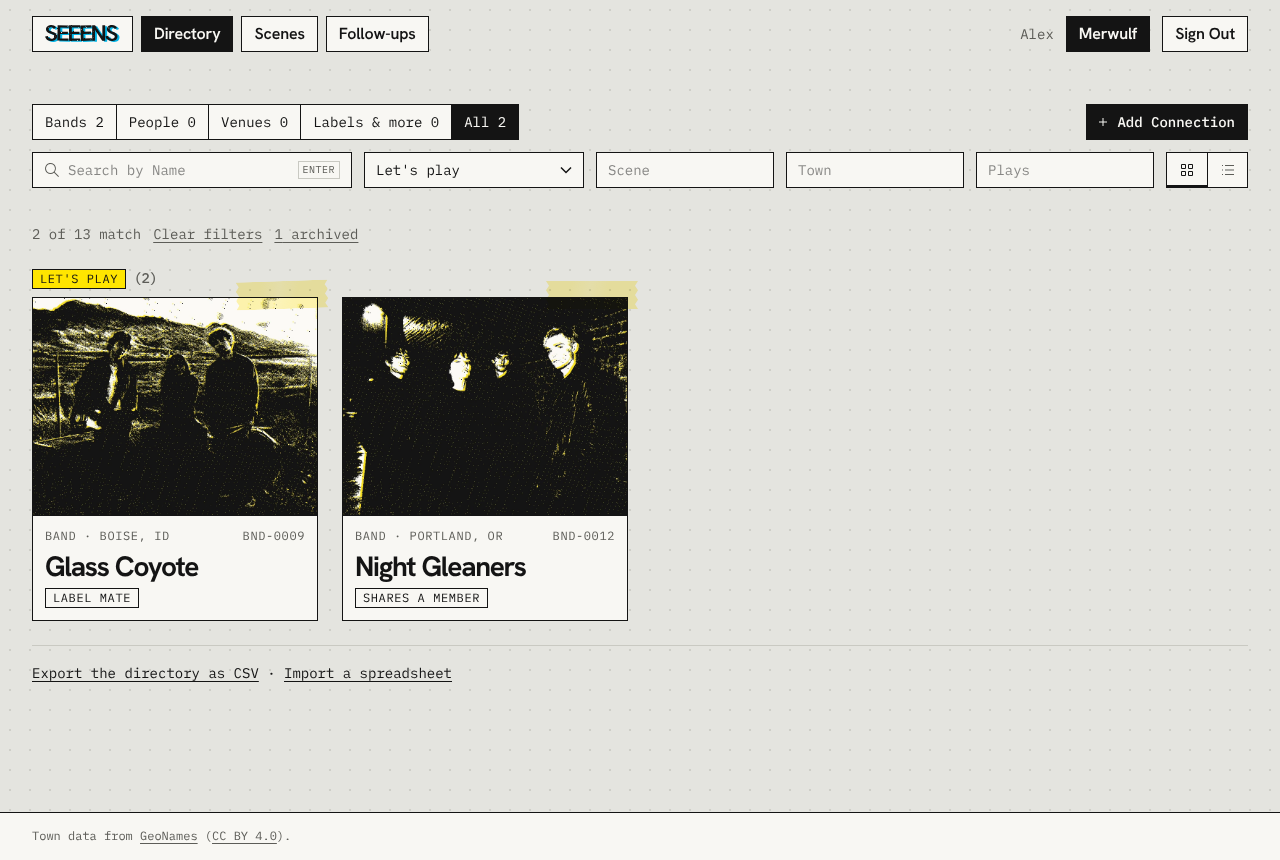
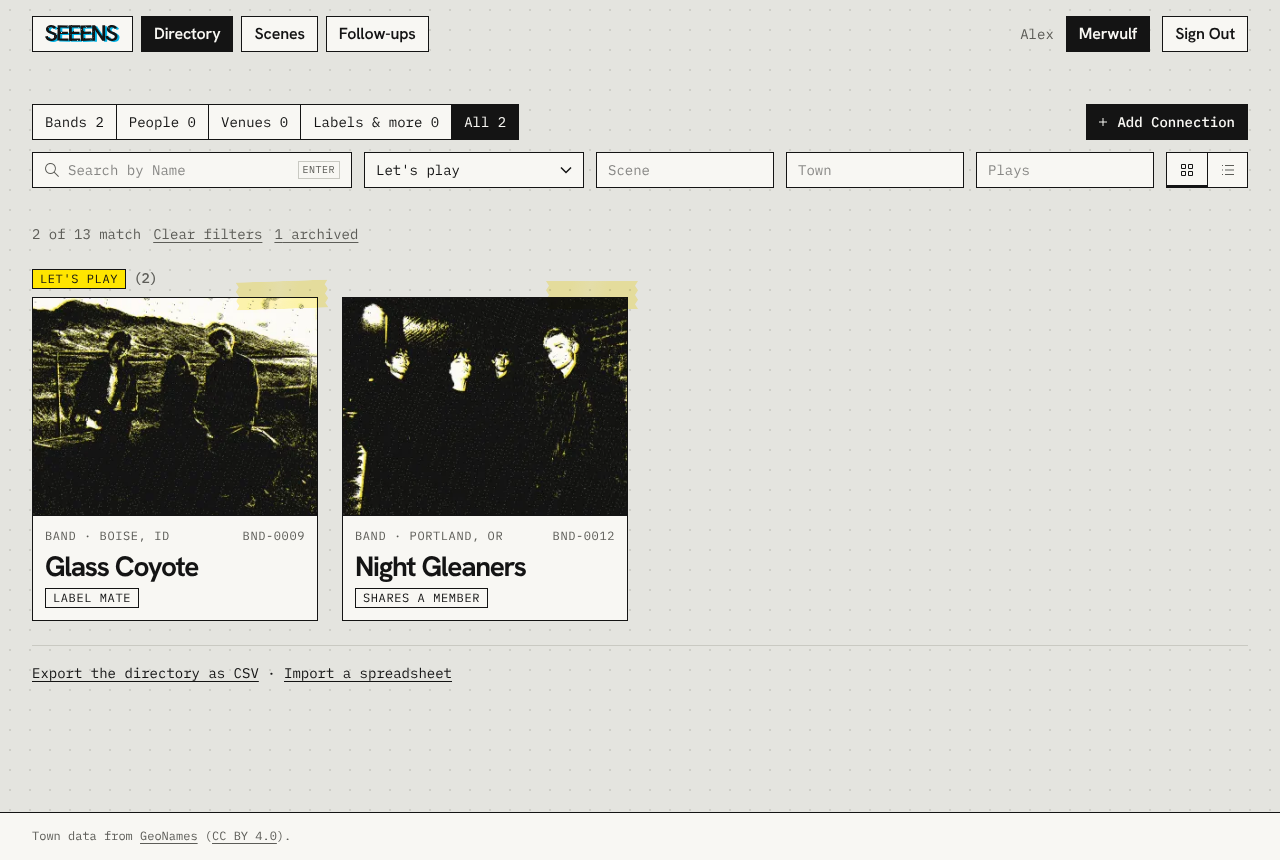
Photos load from a stable, cached address, at the size shown (#154)
Photos came through signed storage links that changed on every page load,
so neither the browser nor Supabase's CDN could cache them: every visit
downloaded every photo again, at the full 800px copy (90-220 KB), even for
48px list thumbnails.

- /api/photos/<path> serves a photo to signed-in members (storage policies
  check the workspace). Saves always write new file names, so each address
  is cached by the browser for a year (private, immutable).
- ?w= serves a smaller WebP: 160 for list rows, 320 for the page header,
  320/640 by srcset for cards. Cards drop to about 15-25 KB, rows to ~5 KB.
- Pages no longer sign links on every render.
- sharp is now a direct dependency (it was already installed through Next).

Claude-Session: https://claude.ai/code/session_01SMP6NnyPkRALtU7G1T7uNS

diff --git a/src/lib/connections/directory.ts b/src/lib/connections/directory.ts
@@ -3,7 +3,6 @@ import { readVenueDetails, venueLine } from "./venue-details";
 import { requireWorkspaceId } from "@/lib/auth/dal";
 import { createClient } from "@/lib/supabase/server";
 import { listSceneOptions, sceneAndChildren } from "@/lib/scenes/queries";
-import { signPhotos } from "@/lib/photos/urls";
 import { readFilters, type DirectoryFilters } from "./filters";
 import type { ConnectionKind, ConnectionStatus, GroupType, PersonRole } from "./labels";
 import { readTab, type Tab } from "./tabs";
@@ -41,8 +40,8 @@ export type DirectoryItem = {
   is_us: boolean;
   played_together: boolean;
   catalog_no: number;
-  /** A signed link to the copied photo (#37), if there is one. */
-  photo_url: string | null;
+  /** The copied photo's storage path (#37), if there is one; see photoUrl. */
+  photo_path: string | null;
   photo_alt: string | null;
   localities: {
     name: string;
@@ -168,12 +167,11 @@ export async function loadDirectoryPage(
   if (detailError) throw new Error("Couldn't load the directory.");
 
   const byId = new Map((details ?? []).map((d) => [d.id, d]));
-  const photos = await signPhotos((details ?? []).map((d) => d.photo_path));
   const sceneNames = new Map(scenes.map((s) => [s.id, s.name]));
   const items: DirectoryItem[] = page.rows.flatMap((r) => {
     const d = byId.get(r.id);
     if (!d) return []; // deleted between the two reads
-    const { connection_scenes, photo_path, notes, incoming, outgoing, attributes, ...rest } = d;
+    const { connection_scenes, notes, incoming, outgoing, attributes, ...rest } = d;
     // Current, unarchived members only, in name order.
     const names = (links: { kind: string; is_current: boolean; other: { name: string; archived_at: string | null } | null }[]) =>
       links
@@ -183,7 +181,6 @@ export async function loadDirectoryPage(
     return [
       {
         ...rest,
-        photo_url: photo_path ? (photos.get(photo_path) ?? null) : null,
         tags: [r.label_mate ? "Label mate" : null, r.shares_member ? "Shares a member" : null].filter(
           (t): t is string => Boolean(t),
         ),

diff --git a/src/app/api/photos/[...path]/route.ts b/src/app/api/photos/[...path]/route.ts
@@ -1,0 +1,41 @@
+import sharp from "sharp";
+import { createClient } from "@/lib/supabase/server";
+import { PHOTO_BUCKET, PHOTO_WIDTHS, isPhotoPath } from "@/lib/photos/urls";
+
+// A connection photo at a stable address (#37). Photos used to load through
+// signed storage links that changed on every page load, so nothing could
+// cache them and every visit downloaded every photo again at full size.
+//
+// Every save writes files under new names, so a path's bytes never change:
+// the browser keeps each one for a year. Signed-in members only: storage
+// policies check the workspace on the download. ?w= serves a smaller copy for cards
+// and thumbnails.
+const NOT_FOUND = new Response(null, { status: 404, headers: { "Cache-Control": "private, no-store" } });
+
+export async function GET(request: Request, { params }: { params: Promise<{ path: string[] }> }) {
+  const path = (await params).path.join("/");
+  const supabase = await createClient();
+  const { data: claims } = await supabase.auth.getClaims();
+  if (!claims?.claims?.sub) return NOT_FOUND.clone();
+  // Storage policies only let members of the path's workspace download it,
+  // so there's no separate membership lookup per photo.
+  if (!isPhotoPath(path)) return NOT_FOUND.clone();
+
+  const { data: file, error } = await supabase.storage.from(PHOTO_BUCKET).download(path);
+  if (error || !file) return NOT_FOUND.clone();
+
+  const w = Number(new URL(request.url).searchParams.get("w"));
+  let body: ArrayBuffer | Buffer = await file.arrayBuffer();
+  let type = file.type || "image/webp";
+  if ((PHOTO_WIDTHS as readonly number[]).includes(w)) {
+    body = await sharp(Buffer.from(body)).resize({ width: w, withoutEnlargement: true }).webp({ quality: 80 }).toBuffer();
+    type = "image/webp";
+  }
+  return new Response(new Uint8Array(body), {
+    headers: {
+      "Content-Type": type,
+      "Cache-Control": "private, max-age=31536000, immutable",
+      "X-Content-Type-Options": "nosniff",
+    },
+  });
+}

diff --git a/src/lib/photos/urls.ts b/src/lib/photos/urls.ts
@@ -1,17 +1,23 @@
-import "server-only";
-import { createClient } from "@/lib/supabase/server";
-
 export const PHOTO_BUCKET = "connection-photos";
-/** Signed photo links last an hour; pages re-sign them on every load. */
-const EXPIRES_IN = 60 * 60;
 
-/** Short-lived links for stored photo paths, keyed by path. Missing ones are left out. */
-export async function signPhotos(paths: (string | null | undefined)[]) {
-  const wanted = [...new Set(paths.filter((p): p is string => Boolean(p)))];
-  const urls = new Map<string, string>();
-  if (!wanted.length) return urls;
-  const supabase = await createClient();
-  const { data } = await supabase.storage.from(PHOTO_BUCKET).createSignedUrls(wanted, EXPIRES_IN);
-  for (const d of data ?? []) if (d.path && d.signedUrl && !d.error) urls.set(d.path, d.signedUrl);
-  return urls;
+/** Widths the photo route serves besides the full copy: list rows, the page header, cards. */
+export const PHOTO_WIDTHS = [160, 320, 640] as const;
+export type PhotoWidth = (typeof PHOTO_WIDTHS)[number];
+
+const PATH = /^[0-9a-f-]{36}\/[0-9a-f-]{36}\/[0-9a-f-]{36}(-original)?\.(webp|jpg)$/;
+export const isPhotoPath = (p: string) => PATH.test(p);
+
+/**
+ * A stored photo's address on this site (/api/photos/…), stable for as long as
+ * the photo is, so the browser caches it. Optionally a smaller copy.
+ */
+export function photoUrl(path: string | null | undefined, width?: PhotoWidth): string | null {
+  if (!path || !isPhotoPath(path)) return null;
+  return `/api/photos/${path}${width ? `?w=${width}` : ""}`;
+}
+
+/** srcset for a photo shown at several sizes (cards). */
+export function photoSrcSet(path: string | null | undefined): string | undefined {
+  const base = photoUrl(path);
+  return base ? `${base}?w=320 320w, ${base}?w=640 640w, ${base} 800w` : undefined;
 }

diff --git a/src/components/connection-card.tsx b/src/components/connection-card.tsx
@@ -1,4 +1,5 @@
 import Link from "next/link";
+import { photoSrcSet, photoUrl } from "@/lib/photos/urls";
 import type { ReactNode } from "react";
 import { DateLines } from "@/components/date-line";
 import {
@@ -30,7 +31,7 @@ export type CardConnection = {
   is_us: boolean;
   played_together: boolean;
   catalog_no: number;
-  photo_url?: string | null;
+  photo_path?: string | null;
   photo_alt?: string | null;
   localities: Parameters<typeof formatLocality>[0];
   outreach_entries: { occurred_on: string; summary: string }[];
@@ -73,10 +74,18 @@ export function ConnectionCard({
       <span className="card-print" aria-hidden="true">
         {/* Initials sit under the photo, so a photo that fails to load never leaves a blank print. */}
         <span className="card-print-initials">{initials(c.name)}</span>
-        {c.photo_url ? (
-          // Signed storage links change on every load, so next/image's cache wouldn't help.
+        {c.photo_path ? (
+          // Served at a stable address and cached by the browser; the card takes
+          // the smallest copy that's sharp at its width.
           // eslint-disable-next-line @next/next/no-img-element
-          <img src={c.photo_url} alt="" loading="lazy" decoding="async" />
+          <img
+            src={photoUrl(c.photo_path, 640)!}
+            srcSet={photoSrcSet(c.photo_path)}
+            sizes="(min-width: 80rem) 25vw, (min-width: 48rem) 33vw, (min-width: 40rem) 50vw, 100vw"
+            alt=""
+            loading="lazy"
+            decoding="async"
+          />
         ) : null}
       </span>
       <span className={`tape ${c.is_us ? "tape-clear" : TAPE[c.status]} card-tape`} style={{ rotate: `${tilt}deg` }} aria-hidden="true" />

diff --git a/src/app/(app)/connections/[id]/edit/page.tsx b/src/app/(app)/connections/[id]/edit/page.tsx
@@ -9,7 +9,7 @@ import { linksPanelProps } from "@/lib/affiliations/rows";
 import { NoWorkspace } from "@/components/no-workspace";
 import { listSceneOptions } from "@/lib/scenes/queries";
 import { PhotoPanel } from "@/components/photo-panel";
-import { signPhotos } from "@/lib/photos/urls";
+import { photoUrl } from "@/lib/photos/urls";
 import { defaultSettings, readSettings } from "@/lib/photos/settings";
 
 export const metadata: Metadata = { title: "Edit connection · Seeens" };
@@ -29,7 +29,6 @@ async function EditConnection({ params }: { params: PageProps<"/connections/[id]
   const { id } = await params;
   const [detail, scenes] = await Promise.all([getConnection(id), listSceneOptions()]);
   const { connection } = detail;
-  const photos = await signPhotos([connection.photo_path, connection.photo_original_path]);
 
   return (
     <div className="page-measure flex flex-col gap-6">
@@ -46,8 +45,8 @@ async function EditConnection({ params }: { params: PageProps<"/connections/[id]
               connectionId={connection.id}
               workspaceId={membership.workspaceId}
               name={connection.name}
-              photoUrl={connection.photo_path ? (photos.get(connection.photo_path) ?? null) : null}
-              originalUrl={connection.photo_original_path ? (photos.get(connection.photo_original_path) ?? null) : null}
+              photoUrl={photoUrl(connection.photo_path, 320)}
+              originalUrl={photoUrl(connection.photo_original_path)}
               photoPath={connection.photo_path}
               originalPath={connection.photo_original_path}
               settings={readSettings(connection.photo_settings)}

diff --git a/src/app/(app)/connections/[id]/page.tsx b/src/app/(app)/connections/[id]/page.tsx
@@ -32,7 +32,7 @@ import { LinksPanel } from "@/components/links-panel";
 import { NoWorkspace } from "@/components/no-workspace";
 import { QuickStatus } from "@/components/quick-status";
 import { PhotoPanel } from "@/components/photo-panel";
-import { signPhotos } from "@/lib/photos/urls";
+import { photoUrl } from "@/lib/photos/urls";
 import { defaultSettings, readSettings } from "@/lib/photos/settings";
 
 export default function ConnectionPage({ params, searchParams }: PageProps<"/connections/[id]">) {
@@ -62,7 +62,6 @@ async function Connection({
   const ourLabel = detail.affiliations.incoming.some((a) => a.kind === "on_label" && a.other?.is_us && a.is_current);
   const place = formatLocality(c.localities);
   const archived = Boolean(c.archived_at);
-  const photos = await signPhotos([c.photo_path, c.photo_original_path]);
   // What they play, from their band roles, current and former (#140).
   const plays =
     c.kind === "person"
@@ -99,8 +98,8 @@ async function Connection({
           connectionId={c.id}
           workspaceId={membership.workspaceId}
           name={c.name}
-          photoUrl={c.photo_path ? (photos.get(c.photo_path) ?? null) : null}
-          originalUrl={c.photo_original_path ? (photos.get(c.photo_original_path) ?? null) : null}
+          photoUrl={photoUrl(c.photo_path, 320)}
+          originalUrl={photoUrl(c.photo_original_path)}
           photoPath={c.photo_path}
           originalPath={c.photo_original_path}
           settings={readSettings(c.photo_settings)}

diff --git a/src/components/directory-results.tsx b/src/components/directory-results.tsx
@@ -1,6 +1,7 @@
 "use client";
 
 import Link from "next/link";
+import { photoUrl } from "@/lib/photos/urls";
 import { useEffect, useRef, useState, useTransition } from "react";
 import { ConnectionCard } from "@/components/connection-card";
 import { DateLines } from "@/components/date-line";
@@ -161,10 +162,10 @@ function ConnectionRows({ connections, today, tab }: { connections: DirectoryIte
               {/* The copied photo, or initials on photo paper. Decorative: the name is right beside it. */}
               <span className="row-thumb" aria-hidden="true">
                 <span className="row-thumb-initials">{initials(c.name)}</span>
-                {c.photo_url ? (
-                  // Signed storage links change on every load, so next/image's cache wouldn't help.
+                {c.photo_path ? (
+                  // A small copy at a stable, cached address.
                   // eslint-disable-next-line @next/next/no-img-element
-                  <img src={c.photo_url} alt="" loading="lazy" decoding="async" />
+                  <img src={photoUrl(c.photo_path, 160)!} alt="" loading="lazy" decoding="async" />
                 ) : null}
               </span>
               <span className="flex min-w-0 flex-col gap-2">
